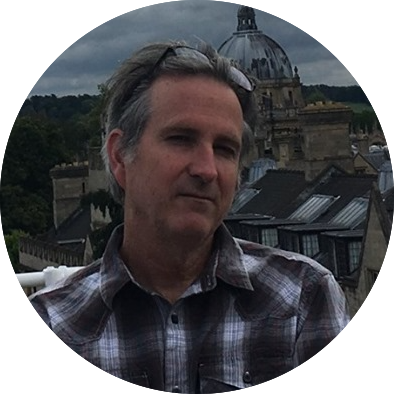
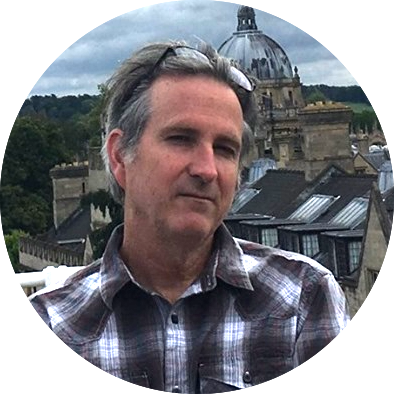
brighten profile image and add bio

diff --git a/_authors/oberg.md b/_authors/oberg.md
@@ -1,0 +1,9 @@
+---
+short_name: michaelo
+name: Michael Oberg
+position: Contributor
+---
+
+<img src="/images/oberg.png" alt="Michael Oberg" style="width:25%;float:left;padding-right:1.5em;" />
+
+**Michael Leroy Oberg**, the author of *Native America,* is Distinguished Professor of History at SUNY Geneseo and director of the Geneseo Center for Local and Municipal History, founded in February 2019.  In addition to this textbook, he has written the following works: *[Dominion and Civility: English Imperialism and Native America, 1585-1685](http://www.cornellpress.cornell.edu/book/?GCOI=80140100663830)* (Ithaca: Cornell University Press, 1999); *[Uncas: First of the Mohegans](https://www.amazon.com/Uncas-Mohegans-Michael-Leroy-Oberg/dp/0801472946),* (Ithaca: Cornell University Press, 2003); *[Samuel Wiseman’s Book of Record: The Official Account of Bacon’s Rebellion in Virginia](https://www.amazon.com/Samuel-Wisemans-Book-Record-Rebellion/dp/0739135309/ref=sr_1_1?s=books&ie=UTF8&qid=1475604175&sr=1-1&keywords=samuel+wisemans+book+of+record),* (Lanham: Lexington Books, 2005); *[The Head in Edward Nugent’s Hand: Roanoke’s Forgotten Indians](http://www.upenn.edu/pennpress/book/14387.html), * (Philadelphia: University of Pennsylvania Press, 2007); the first edition of *Native America;* *[Professional Indian: Eleazer Williams’s American Odyssey](http://www.upenn.edu/pennpress/book/15377.html)*, (Philadelphia: University of Pennsylvania Press, 2015); and *[Peacemakers: The Iroquois, the United States, and the Treaty of Canandaigua, 1794](https://global.oup.com/academic/product/peacemakers-9780199913800?cc=us&lang=en&)*, (New York: Oxford University Press, 2015).  He has published, as well, articles and reviews, and has worked as a historical consultant for native communities in New York and North Carolina, as well as for the Indian Resources Section of the United States Department of Justice.  He has won awards for his teaching and research in Montana and in New York, including the SUNY Chancellor’s Award for Excellence in Teaching.
